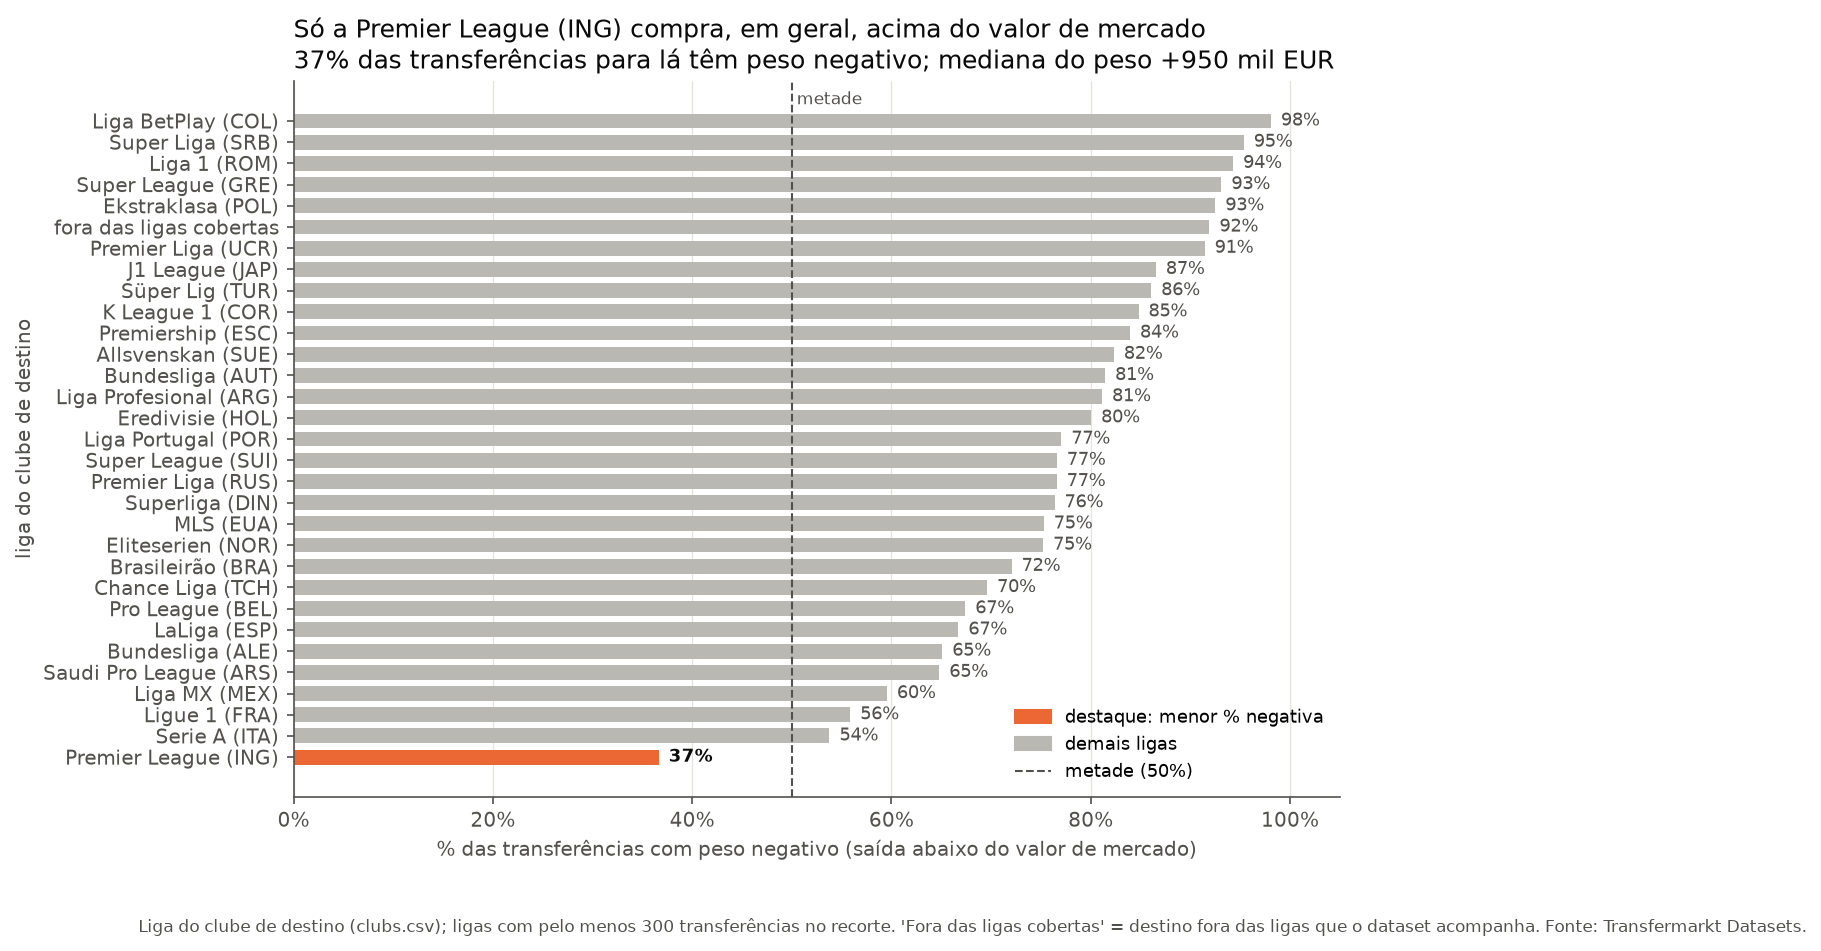
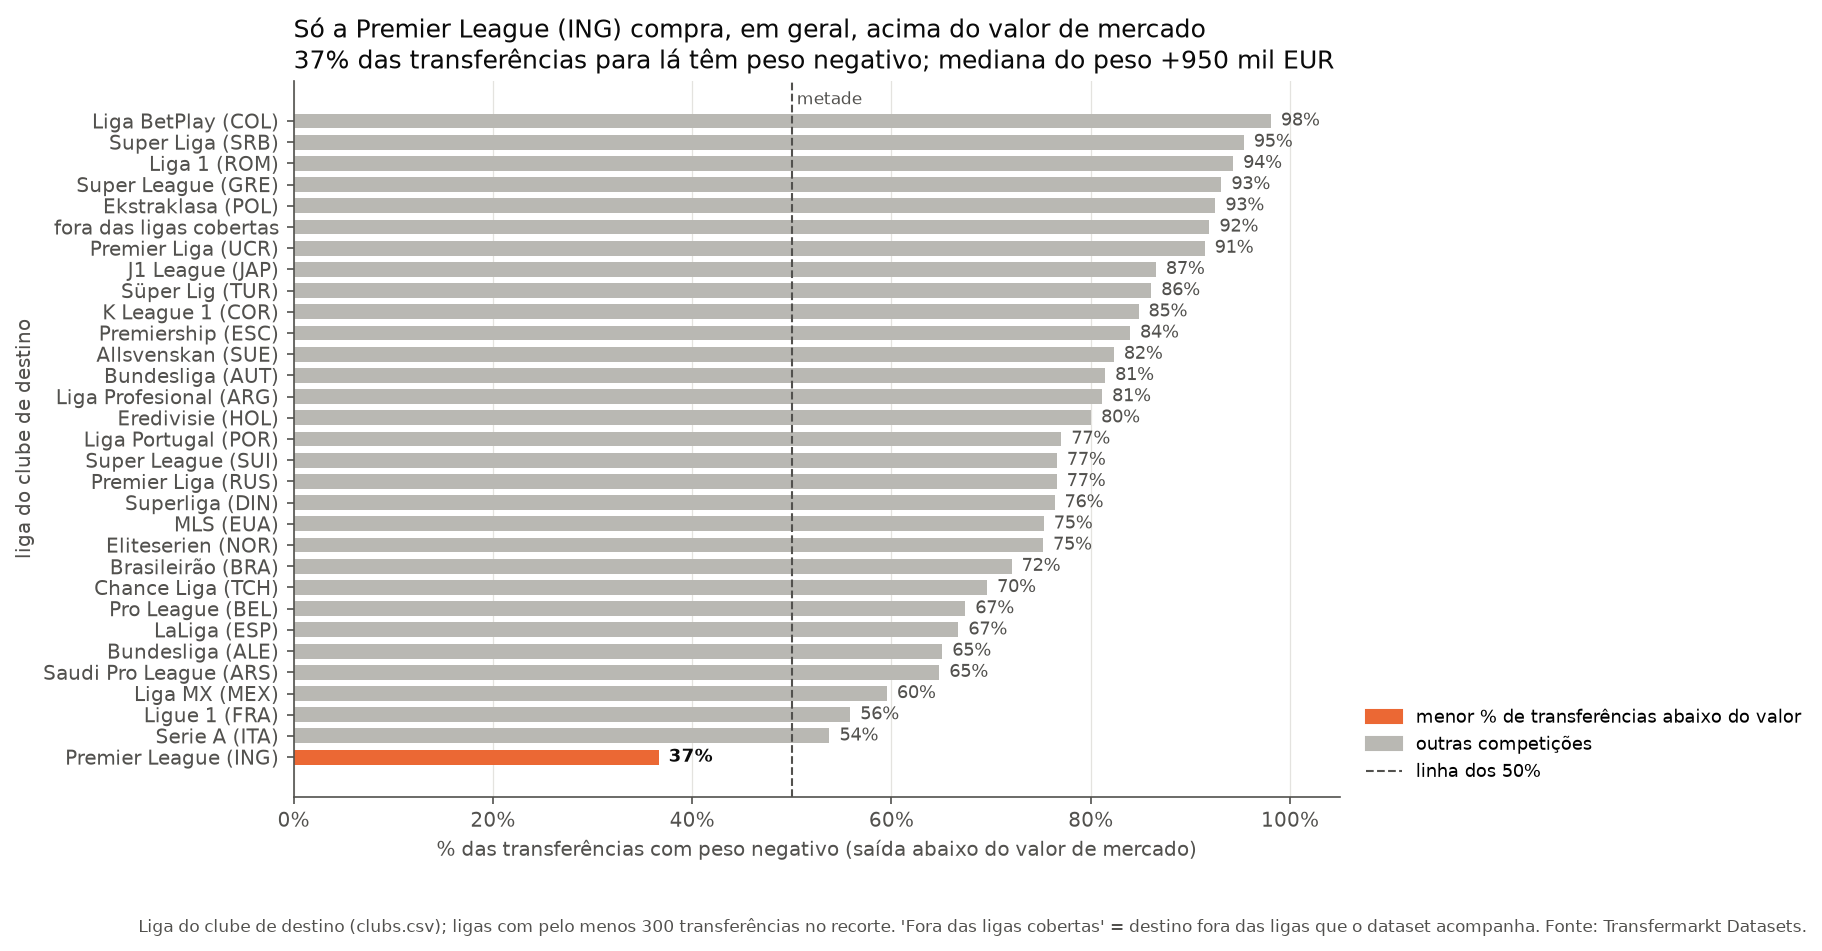
x2: textos da legenda reescritos à mão e legenda fora do eixo

diff --git a/src/viz_parte2.py b/src/viz_parte2.py
@@ -376,11 +376,14 @@ def explanatoria_ligas(t, saida):
     ax.xaxis.set_major_formatter(FuncFormatter(pct_eixo))
     ax.set_xlabel("% das transferências com peso negativo (saída abaixo do valor de mercado)")
     ax.grid(axis="y", visible=False)
-    # [IA] Claude Code (Claude Opus 5.5) – rótulo y e legenda no canto vazio à direita das barras mais curtas
+    # [IA] Claude Code (Claude Opus 5.5) – código do rótulo y e da legenda; textos da legenda escritos por Caio
     ax.set_ylabel("liga do clube de destino")
-    ax.legend(handles=[Patch(color=DESTAQUE, label="destaque: menor % negativa"), Patch(color=NEUTRO, label="demais ligas"),
-                       Line2D([], [], color=TEXTO_2, ls="--", lw=1, label="metade (50%)")],
-              loc="lower right", fontsize=8.5)
+    ax.legend(handles=[
+    Patch(color=DESTAQUE, label="menor % de transferências abaixo do valor"),
+    Patch(color=NEUTRO, label="outras competições"),
+    Line2D([], [], color=TEXTO_2, ls="--", lw=1, label="linha dos 50%")
+],
+        loc="lower left", bbox_to_anchor=(1.01, 0), fontsize=8.5)
     r = g.loc[destaque]
     sinal = "+" if r["mediana"] > 0 else ""
     ax.set_title(f"Só a {LIGAS.get(destaque, destaque)} compra, em geral, acima do valor de mercado\n"
